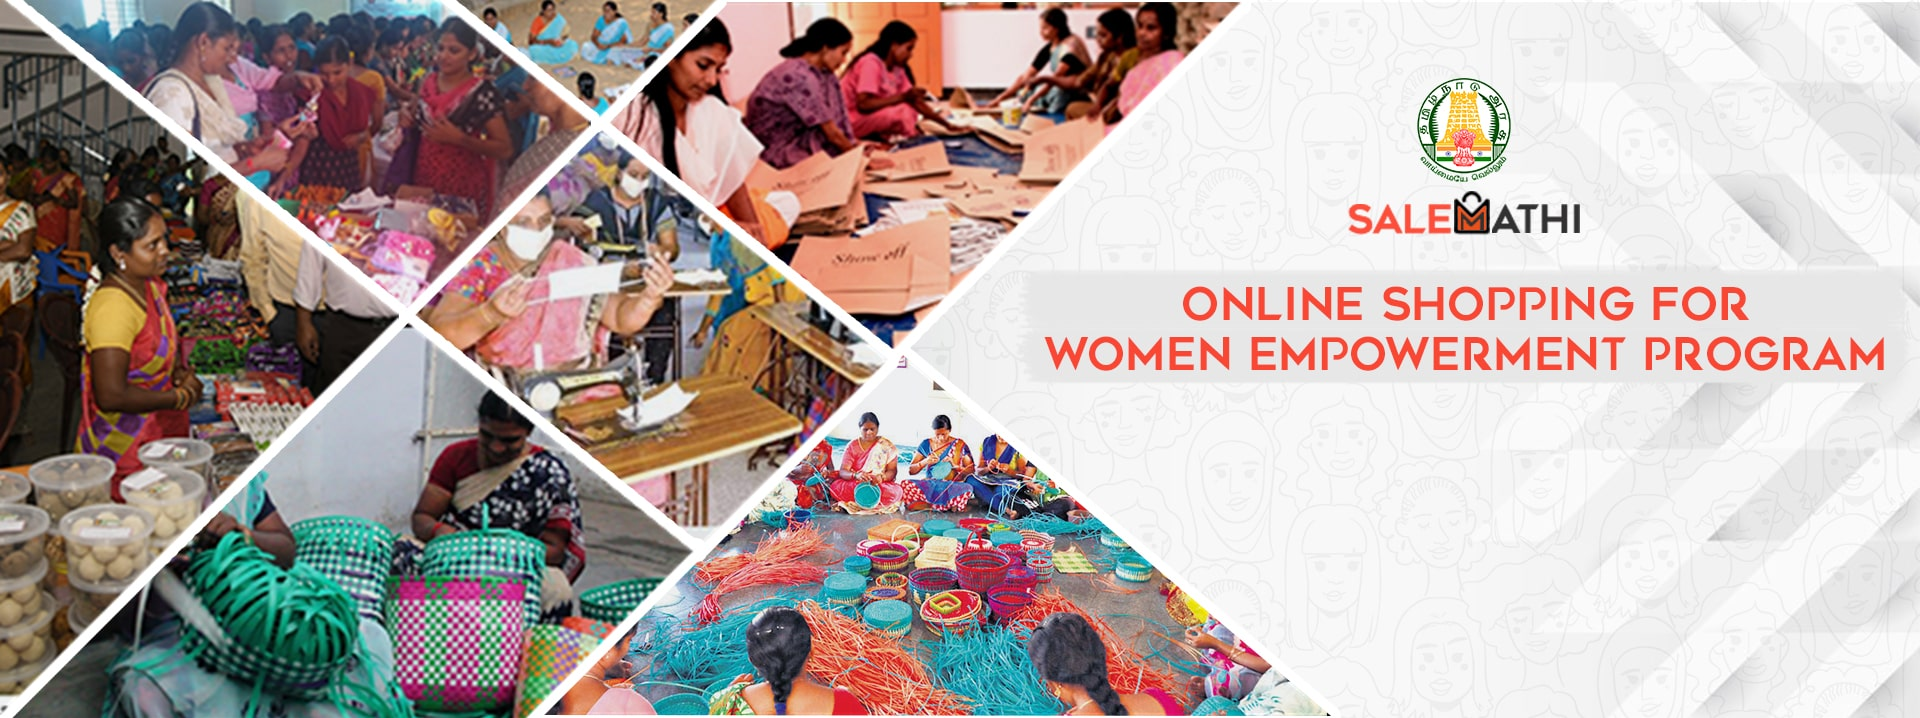
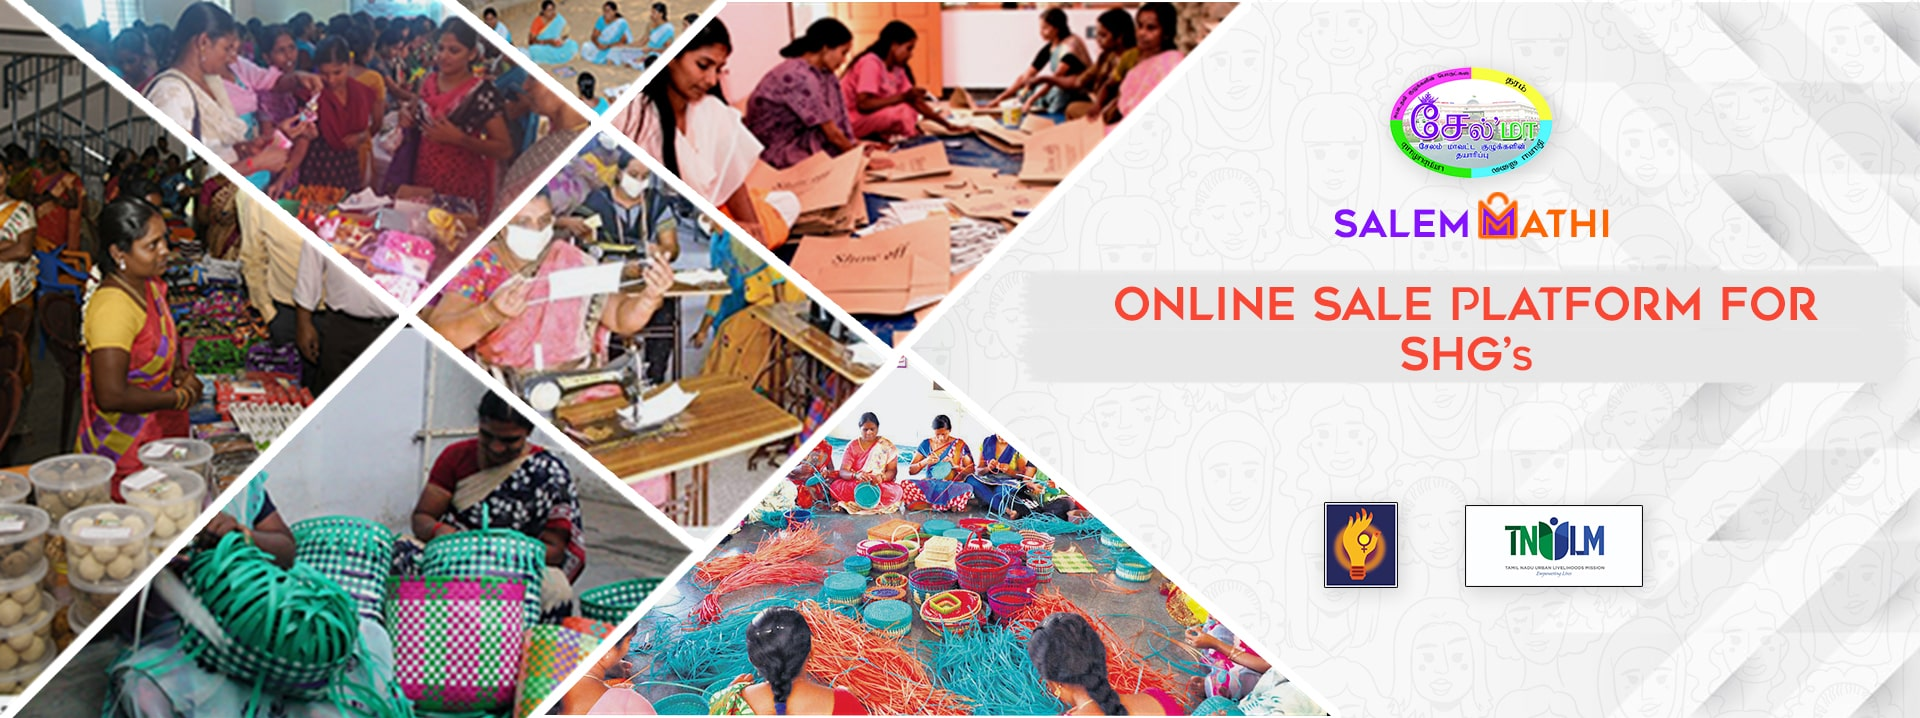
website change

diff --git a/src/app/shared/header/header-one/header-one.component.ts b/src/app/shared/header/header-one/header-one.component.ts
@@ -8,9 +8,9 @@ import {ProductlistComponent} from '../../../ourpages/productlist/productlist.co
   styleUrls: ['./header-one.component.scss']
 })
 export class HeaderOneComponent implements OnInit {
-  
+
   @Input() class: string;
-  @Input() themeLogo: string = 'assets/images/icon/logo.png'; // Default Logo
+  @Input() themeLogo: string = 'assets/images/icon/Salem Mathi Logo 5.png'; // Default Logo
   @Input() topbar: boolean = true; // Default True
   @Input() sticky: boolean = false; // Default false
   searchbox:string=''
@@ -25,7 +25,7 @@ export class HeaderOneComponent implements OnInit {
   @HostListener("window:scroll", [])
   onWindowScroll() {
     let number = window.pageYOffset || document.documentElement.scrollTop || document.body.scrollTop || 0;
-  	if (number >= 150 && window.innerWidth > 400) { 
+  	if (number >= 150 && window.innerWidth > 400) {
   	  this.stick = true;
   	} else {
   	  this.stick = false;

diff --git a/src/app/shared/components/layout-box/layout-box.component.html b/src/app/shared/components/layout-box/layout-box.component.html
@@ -1,11 +1,11 @@
 <div>
     <!-- theme setting -->
     <a href="javascript:void(0)">
-        <div class="setting-sidebar" id="setting-icon" (click)="layoutSidebarToggle()">
+        <!-- <div class="setting-sidebar" id="setting-icon" (click)="layoutSidebarToggle()">
             <div>
                 <i class="fa fa-cog" aria-hidden="true"></i>
             </div>
-        </div>
+        </div> -->
     </a>
     <div id="setting_box" class="setting-box" [class.opensetting]="layoutsidebar">
         <a href="javascript:void(0)" class="overlay" (click)="layoutSidebarToggle()"></a>

diff --git a/src/app/shop/wishlist/wishlist.component.ts b/src/app/shop/wishlist/wishlist.component.ts
@@ -124,6 +124,7 @@ export class WishlistComponent implements OnInit {
         this.apiservice.wishlistdelete(senddata).subscribe((res) => {
           if (res.status == "1") {
             this.toastrService.success(res.message);
+            window.location.reload();
             this.wishlistservice()
             Swal.fire(
               'Deleted!',

diff --git a/src/environments/environment.prod.ts b/src/environments/environment.prod.ts
@@ -1,6 +1,6 @@
 export const environment = {
   production: true,
   defaultauth: 'fackbackend',
-   apiurl: 'http://208.109.8.9:3005',
+   apiurl: 'https://api.salemmathi.com:3030',
  // apiurl: 'http://localhost:3000',
 };

diff --git a/src/environments/environment.ts b/src/environments/environment.ts
@@ -5,7 +5,7 @@
 export const environment = {
   production: false,
   defaultauth: 'fackbackend',
-   apiurl: 'http://208.109.8.9:3005',
+   apiurl: 'https://api.salemmathi.com:3030',
  //apiurl: 'http://localhost:3000'
 
 

diff --git a/src/app/shop/cart/cart.component.ts b/src/app/shop/cart/cart.component.ts
@@ -149,6 +149,7 @@ Swal.fire({
   if(res.status == "1")
   {
     this.toastrService.success(res.message);
+    window.location.reload();
     this.cartlist()
     Swal.fire(
       'Deleted!',

diff --git a/src/app/ourpages/product/productfullview/productfullview.component.html b/src/app/ourpages/product/productfullview/productfullview.component.html
@@ -104,6 +104,8 @@
                         </div>
                     </div>
                 </div>
+
+
             </div>
         </div>
     </div>
